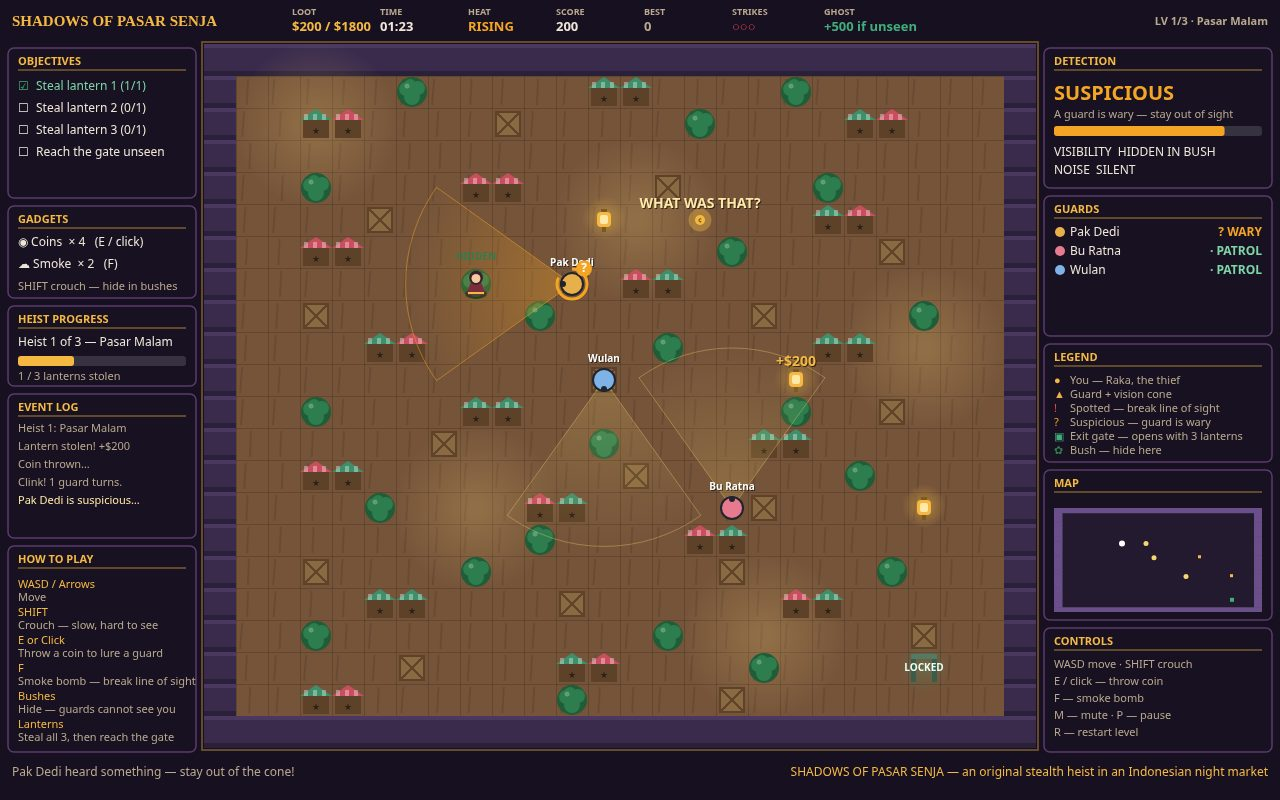
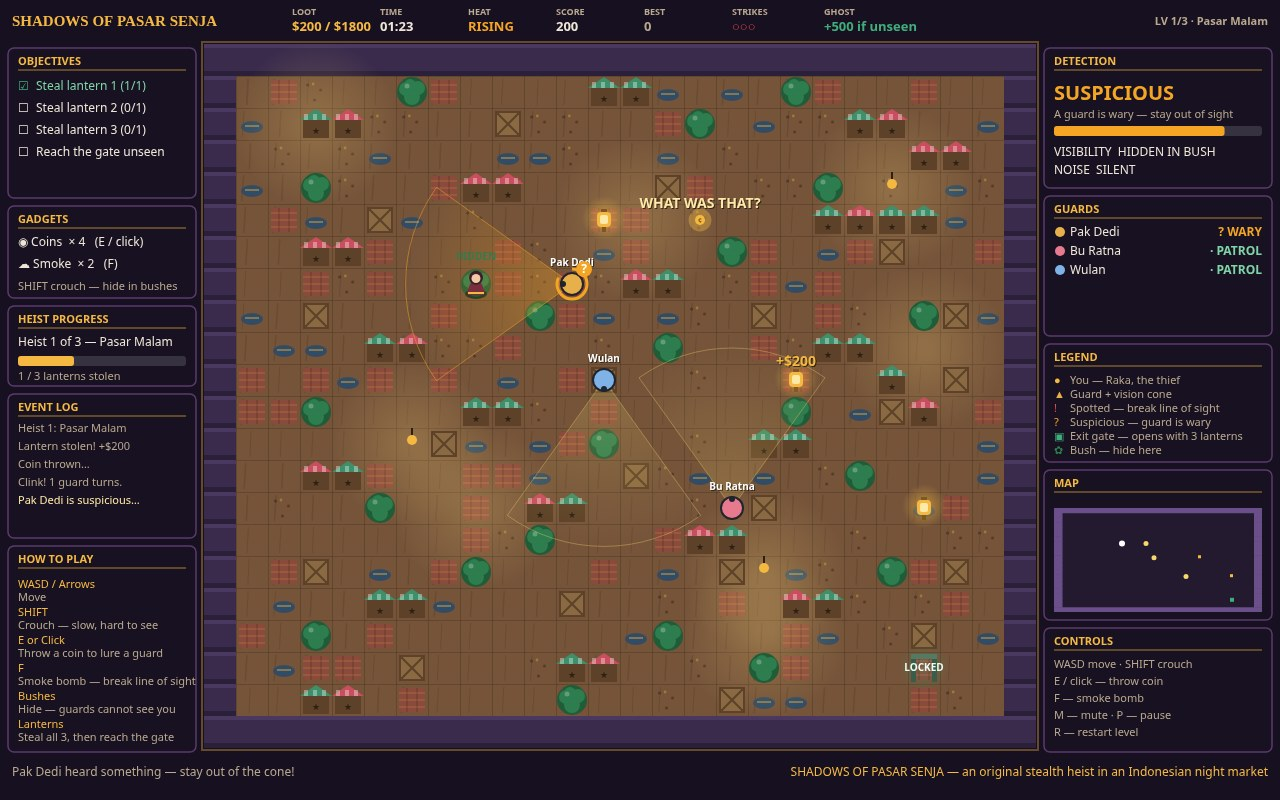
Shadows of Pasar Senja v2 — denser cover and title shots (revision)

diff --git a/game/src/render.js b/game/src/render.js
@@ -107,6 +107,51 @@ function drawFloor(ctx, level, t) {
       ctx.moveTo(px + 6 + v * 18, py + 3);
       ctx.lineTo(px + 4 + v * 20, py + TILE - 3);
       ctx.stroke();
+      // Market floor decor: woven mats, lantern-lit puddles, scattered debris.
+      // Flat on the floor — never blocks movement or sight, only fills the eye.
+      if (v < 0.07) {
+        ctx.fillStyle = '#8a4a3c';
+        ctx.beginPath();
+        ctx.roundRect(px + 3, py + 4, TILE - 6, TILE - 8, 3);
+        ctx.fill();
+        ctx.strokeStyle = 'rgba(245,185,66,0.28)';
+        ctx.lineWidth = 1;
+        for (let i = 0; i < 3; i++) {
+          ctx.beginPath();
+          ctx.moveTo(px + 3, py + 9 + i * 7);
+          ctx.lineTo(px + TILE - 3, py + 9 + i * 7);
+          ctx.stroke();
+        }
+        ctx.strokeStyle = 'rgba(0,0,0,0.22)';
+        ctx.beginPath();
+        ctx.moveTo(px + 11, py + 4);
+        ctx.lineTo(px + 11, py + TILE - 4);
+        ctx.moveTo(px + 21, py + 4);
+        ctx.lineTo(px + 21, py + TILE - 4);
+        ctx.stroke();
+      } else if (v < 0.12) {
+        ctx.fillStyle = 'rgba(39,75,109,0.85)';
+        ctx.beginPath();
+        ctx.ellipse(px + 16, py + 19, 11, 6, 0, 0, Math.PI * 2);
+        ctx.fill();
+        ctx.strokeStyle = 'rgba(245,185,66,0.55)';
+        ctx.lineWidth = 1.5;
+        ctx.beginPath();
+        ctx.moveTo(px + 9, py + 18);
+        ctx.lineTo(px + 23, py + 18);
+        ctx.stroke();
+      } else if (v < 0.18) {
+        ctx.fillStyle = 'rgba(0,0,0,0.28)';
+        for (const [dx, dy] of [[7, 9], [20, 14], [14, 24]]) {
+          ctx.beginPath();
+          ctx.arc(px + dx + v * 4, py + dy, 1.6, 0, Math.PI * 2);
+          ctx.fill();
+        }
+        ctx.fillStyle = 'rgba(245,185,66,0.35)';
+        ctx.beginPath();
+        ctx.arc(px + 12 + v * 8, py + 8, 1.4, 0, Math.PI * 2);
+        ctx.fill();
+      }
       if (ch === ',') {
         ctx.fillStyle = 'rgba(255,235,190,0.05)';
         ctx.fillRect(px, py, TILE, TILE);
@@ -659,6 +704,27 @@ function drawTitle(ctx, s, t) {
     ctx.font = '700 12px system-ui, sans-serif';
     ctx.fillText(i === 0 ? '▶  PRESS ENTER TO PLAY' : '🔒  COMPLETE HEIST ' + i, x + 16, y + 164);
   });
+  // Feature strip: what the heist is made of.
+  const feats = ['▲ Vision cones', '◉ Cameras & tripwires', '◆ Guard dogs', '✦ Ghost bonus +500'];
+  ctx.font = '700 12px system-ui, sans-serif';
+  const gap = 12, pad = 14, chipH = 30;
+  const widths = feats.map((f) => ctx.measureText(f).width + pad * 2);
+  const totalW = widths.reduce((a, b) => a + b, 0) + gap * (feats.length - 1);
+  let cx0 = (CANVAS_W - totalW) / 2;
+  const chipY = 560;
+  feats.forEach((f, i) => {
+    ctx.fillStyle = 'rgba(245,185,66,0.10)';
+    ctx.strokeStyle = 'rgba(245,185,66,0.55)';
+    ctx.lineWidth = 1;
+    ctx.beginPath();
+    ctx.roundRect(cx0, chipY, widths[i], chipH, 15);
+    ctx.fill();
+    ctx.stroke();
+    ctx.fillStyle = '#ffe9a8';
+    ctx.textAlign = 'left';
+    ctx.fillText(f, cx0 + pad, chipY + 20);
+    cx0 += widths[i] + gap;
+  });
   ctx.textAlign = 'center';
   ctx.fillStyle = '#b9a98f';
   ctx.font = '13px system-ui, sans-serif';
@@ -673,6 +739,36 @@ function drawTitle(ctx, s, t) {
     ctx.fillStyle = '#efe6d8';
     ctx.font = '700 16px system-ui, sans-serif';
     ctx.fillText('— PRESS ENTER —', CANVAS_W / 2, 720);
+  }
+  // Hanging lantern garland along the bottom edge.
+  ctx.strokeStyle = 'rgba(245,185,66,0.5)';
+  ctx.lineWidth = 1.5;
+  ctx.beginPath();
+  ctx.moveTo(40, 752);
+  ctx.quadraticCurveTo(CANVAS_W / 2, 770, CANVAS_W - 40, 752);
+  ctx.stroke();
+  for (let i = 0; i < 13; i++) {
+    const lx = 70 + i * 95;
+    const sag = 752 + Math.sin((lx / CANVAS_W) * Math.PI) * 14;
+    const drop = 8 + (i % 3) * 5;
+    ctx.strokeStyle = 'rgba(245,185,66,0.5)';
+    ctx.beginPath();
+    ctx.moveTo(lx, sag);
+    ctx.lineTo(lx, sag + drop);
+    ctx.stroke();
+    const glow = ctx.createRadialGradient(lx, sag + drop + 8, 1, lx, sag + drop + 8, 16);
+    glow.addColorStop(0, 'rgba(245,185,66,0.55)');
+    glow.addColorStop(1, 'rgba(245,185,66,0)');
+    ctx.fillStyle = glow;
+    ctx.beginPath();
+    ctx.arc(lx, sag + drop + 8, 16, 0, Math.PI * 2);
+    ctx.fill();
+    ctx.fillStyle = '#f5b942';
+    ctx.beginPath();
+    ctx.roundRect(lx - 5, sag + drop + 2, 10, 12, 3);
+    ctx.fill();
+    ctx.fillStyle = '#ffe9a8';
+    ctx.fillRect(lx - 2, sag + drop + 5, 4, 6);
   }
 }
 

diff --git a/game/src/game.js b/game/src/game.js
@@ -104,7 +104,7 @@ function startLevel(idx) {
   S.tripped = false;
   S.tripCooldown = 0;
   S.screen = 'play';
-  log(`Heist ${idx + 1}: ${def.name} — ${def.hint}`);
+  log(`Heist ${idx + 1}: ${def.name}`);
   S.banner = def.hint;
 }
 
@@ -169,10 +169,10 @@ function updatePlayer(dt) {
       S.score += LOOT_VALUE;
       addFloat(lx, ly - 14, `+$${LOOT_VALUE}`);
       audio.pickup();
-      log(`Lantern stolen! +$${LOOT_VALUE}  (${S.loot}/3)`);
+      log(`Lantern stolen! +$${LOOT_VALUE}`);
       if (S.loot >= 3) {
         S.level.exitOpen = true;
-        log('All lanterns stolen — the gate is open!');
+        log('All lanterns stolen!');
         S.banner = 'All lanterns stolen — reach the green gate!';
         audio.win();
       }
@@ -191,7 +191,7 @@ function updatePlayer(dt) {
       S.tripped = true;
       S.tripCooldown = 2;
       S.ghost = false;
-      raiseAlarm('Tripwire tripped! The museum is awake!');
+      raiseAlarm('Tripwire tripped!');
     }
   }
   p.ox = p.x;
@@ -219,7 +219,7 @@ function throwCoin(tx, ty) {
   const coin = { x: p.x, y: p.y, tx, ty, t: 0, flying: true };
   S.coinsThrown.push(coin);
   audio.coin();
-  log('Coin thrown — listen for the clink…');
+  log('Coin thrown…');
 }
 
 function throwSmoke() {
@@ -227,7 +227,7 @@ function throwSmoke() {
   S.smoke--;
   S.smokes.push({ x: S.player.x, y: S.player.y, t: 0, life: 1 });
   audio.smoke();
-  log('Smoke! Line of sight broken.');
+  log('Smoke! Sight broken.');
 }
 
 function updateCoins(dt) {
@@ -247,7 +247,7 @@ function updateCoins(dt) {
         }
       }
       addFloat(c.x, c.y - 12, 'WHAT WAS THAT?', '#ffe9a8');
-      log(lured > 0 ? `Clink! ${lured} guard${lured > 1 ? 's turn' : ' turns'} to look.` : 'Clink! Nobody heard it.');
+      log(lured > 0 ? `Clink! ${lured} guard${lured > 1 ? 's turn' : ' turns'}.` : 'Clink! Nobody heard it.');
     }
   }
   S.coinsThrown = S.coinsThrown.filter((c) => c.t < 14);
@@ -277,7 +277,7 @@ function completeLevel() {
       }
     } catch (e) { /* storage unavailable */ }
     audio.win();
-    log(`HEIST COMPLETE! Final score ${S.score}.`);
+    log('HEIST COMPLETE!');
     return;
   }
   S.screen = 'leveldone';
@@ -285,7 +285,7 @@ function completeLevel() {
   S.unlocked = Math.max(S.unlocked, S.levelIndex + 2);
   try { localStorage.setItem(UNLOCK_KEY, String(S.unlocked)); } catch (e) { /* ignore */ }
   audio.win();
-  log(`Heist ${S.levelIndex + 1} complete! +$${bonus} time bonus.`);
+  log(`Heist ${S.levelIndex + 1} complete!`);
   S.score += bonus;
 }
 
@@ -296,7 +296,7 @@ function onCaught(by) {
   S.caughtBy = by.name;
   S.score = Math.max(0, S.score - 150);
   audio.caught();
-  log(`${by.name} caught Raka! Strike ${S.strikes}/3.`);
+  log(`${by.name} caught Raka!`);
   S.screen = 'caught';
 }
 
@@ -318,12 +318,12 @@ function updatePlay(dt) {
   for (const w of [...S.guards, ...S.dogs]) tickWatcher(S.level, w, S.player, dt, events);
   if (events.saw) {
     audio.suspicious();
-    log(`${events.saw.name} is suspicious… (?)`);
+    log(`${events.saw.name} is suspicious…`);
     S.banner = `${events.saw.name} heard something — stay out of the cone!`;
   }
   if (events.alarm) {
     S.ghost = false;
-    raiseAlarm(`SPOTTED! ${events.alarm.name} raised the alarm — break line of sight and hide!`);
+    raiseAlarm(`SPOTTED! ${events.alarm.name} — hide!`);
   }
   if (events.bark) {
     audio.bark();
@@ -333,7 +333,7 @@ function updatePlay(dt) {
   for (const cam of S.cameras) {
     if (tickCamera(S.level, cam, S.player, dt)) {
       S.ghost = false;
-      raiseAlarm('Camera spotted you! Break line of sight!');
+      raiseAlarm('Camera spotted you!');
     }
   }
   // Actions.

diff --git a/game/src/config.js b/game/src/config.js
@@ -67,20 +67,20 @@ export const LEVELS = [
       '##########################',
       '#P....B.....SS....B......#',
       '#..SS....C.....B....SS...#',
-      '#........................#',
-      '#..B....SS....C....B.....#',
-      '#....C......L......SS....#',
+      '#.....................SS.#',
+      '#..B....SS....C....B.*...#',
+      '#....C......L......SSSS..#',
       '#..SS...........B....C...#',
       '#.......B....SS..........#',
-      '#..C......B......C....B..#',
+      '#..C......B......C....BC.#',
       '#....SS.......B....SS....#',
-      '#...........C.....L......#',
-      '#..B....SS........B..C...#',
-      '#......C....B....SS......#',
+      '#...........C.....L..S.C.#',
+      '#..B....SS........B..CS..#',
+      '#.....*C....B....SS......#',
       '#..SS........C......B....#',
       '#....B....SS.....C....L..#',
       '#.........B....SS........#',
-      '#..C....B.......C....B...#',
+      '#..C....B.......C*...B.C.#',
       '#....SS....C......SS.....#',
       '#..B..........B.......C..#',
       '#.....C....SS....B....E..#',
@@ -95,7 +95,7 @@ export const LEVELS = [
     dogs: [],
     cameras: [],
     tripwires: [],
-    lamps: [[3, 2], [13, 5], [22, 9], [8, 14], [17, 18]],
+    lamps: [[3, 2], [13, 5], [22, 9], [8, 14], [17, 18], [21, 4], [6, 12], [17, 16]],
   },
   {
     id: 2,
